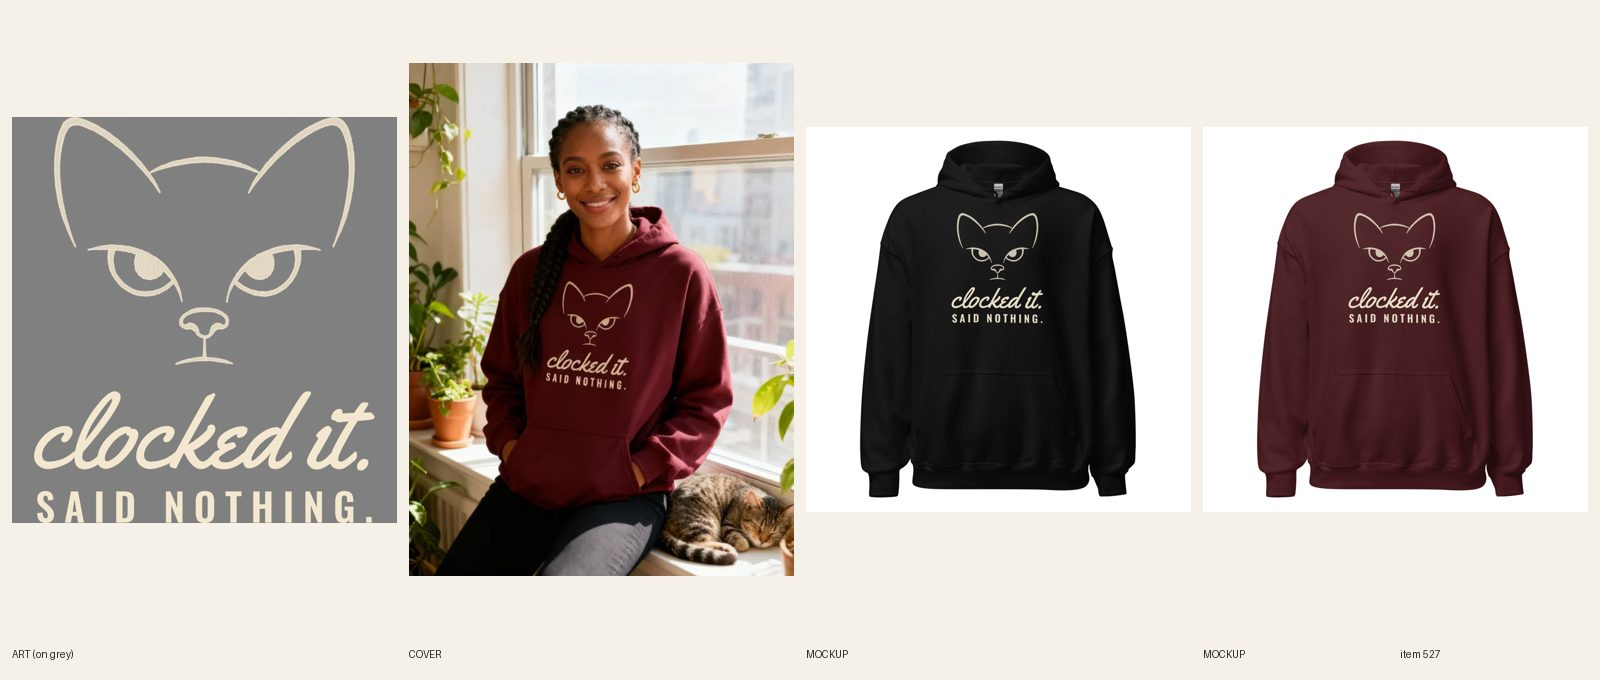
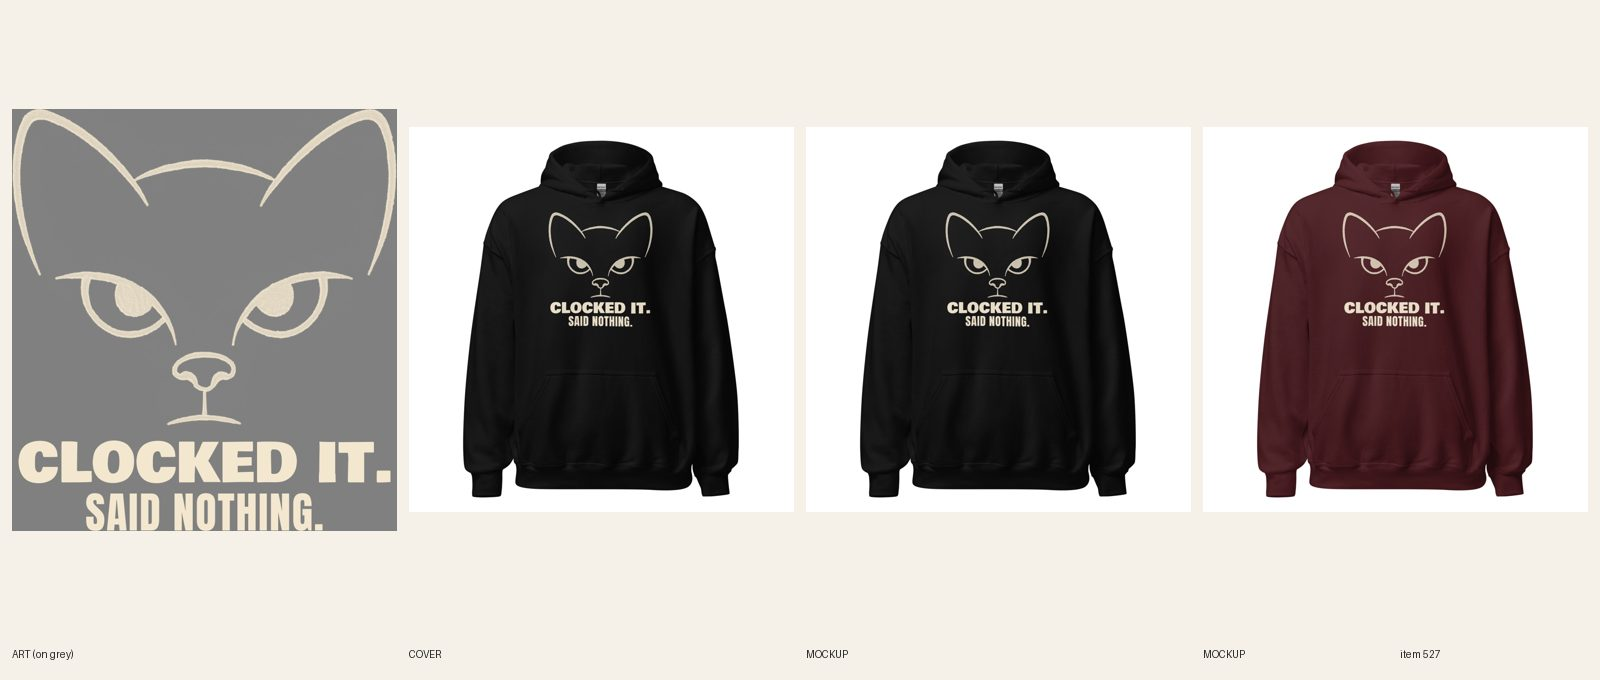
[C] review 527 Clocked It hoodie (type redo)
Claude-Session: https://claude.ai/code/session_015SgLXT5PEy8A7r5ifrBYio

Changed region(s): [[0.0, 0.0926, 0.5, 0.8647], [0.5938, 0.3088, 0.6562, 0.4941], [0.8438, 0.3088, 0.9062, 0.4941]]

diff --git a/designs/c527/make.py b/designs/c527/make.py
@@ -1,0 +1,28 @@
+from PIL import Image, ImageDraw, ImageFont
+src=Image.open('designs/first5/clocked-print.png').convert('RGBA')
+cat=src.crop((0,0,3000,1990)); cat=cat.crop(cat.getbbox())
+CREAM=(243,231,207,255)
+def line(text,font,size,maxw,track=0.0):
+    while True:
+        f=ImageFont.truetype('designs/fonts/'+font,size)
+        adv=[f.getlength(c) for c in text]; t=int(size*track)
+        tot=int(sum(adv)+t*(len(text)-1))
+        if tot<=maxw: break
+        size=int(size*0.97)
+    asc,desc=f.getmetrics()
+    im=Image.new('RGBA',(tot+200,asc+desc+100),(0,0,0,0)); d=ImageDraw.Draw(im); x=100
+    for c,a in zip(text,adv):
+        d.text((x,50),c,font=f,fill=CREAM); x+=a+t
+    return im.crop(im.getbbox())
+W=cat.width
+h1=line('CLOCKED IT.','BowlbyOne-Regular.ttf',900,int(W*1.0))
+h2=line('SAID NOTHING.','Anton-Regular.ttf',700,int(W*0.62),0.03)
+print(cat.size,h1.size,h2.size,h2.height/h1.height)
+gap=90
+H=cat.height+gap+h1.height+60+h2.height
+out=Image.new('RGBA',(W,H),(0,0,0,0)); y=0
+out.alpha_composite(cat,(0,0)); y=cat.height+gap
+out.alpha_composite(h1,((W-h1.width)//2,y)); y+=h1.height+60
+out.alpha_composite(h2,((W-h2.width)//2,y))
+out.save('designs/a478/print.png'); print(out.size)
+bg=Image.new('RGBA',out.size,(25,25,25,255)); bg.alpha_composite(out); bg.convert('RGB').resize((600,int(600*H/W))).save('/tmp/claude-0/-home-user-graphicteesco/b5199641-8ecc-5c6a-923b-7ecc9222cdc8/scratchpad/p478.png')

diff --git a/docs/pipeline/527-hoodie-clocked-it-said-nothing.md b/docs/pipeline/527-hoodie-clocked-it-said-nothing.md
@@ -1,4 +1,4 @@
-status: BUILDING [C] 2026-10-19 20:01
+status: REVIEW
 lane: C
 type: twin
 id: 527
@@ -27,3 +27,4 @@ kd: 59
 - 2026-10-18 03:02 UTC builder [C]: Sync 12/12. REVIEW. Sheet docs/review/527.jpg.
 - 2026-10-18 03:16 UTC director: LIVE. Sheet seen: side-eye cat line art, clocked it. SAID NOTHING. reads on Black and Maroon; woman at a sunny window with a sleeping cat. ACTIVE + Online Store, Headless, Google & YouTube; audit --handle PASS (0 warn).
 - 2026-10-18 17:22 UTC director: QUALITY RESET grade B (type only), REDO. The product stays ACTIVE (same handle, URL, title keyword). Keep the line "clocked it. / SAID NOTHING." and the art. 1. Type: line works; "clocked it." is a thin script, SAID NOTHING small spaced caps. 2. Quality reset type bar (docs/backlog/quality-reset.md, 'The new bar'): headline at least 90% of the art width, heavy, colors pulled from the art; second line at least 45% of the headline's height, never a thin script on a dark or mid garment; use the lettering as a shape (arch, stacked lockup, words breaking into the art), not a plain bar above and a script line below; no font used on more than 1 in 6 of the last 30 designs. 3. New print file means a new cover per R6.10 and a fresh review sheet (R7.7). While quality-reset.md says PAUSED, only lane A builds, and only the samples step 2 names.
+- 2026-10-19 20:07 UTC builder [C]: REDO 527 type only (B grade, twin of #478). Ported #478's print (designs/a478 print, 2352x2578): CLOCKED IT. Bowlby One cream full art width + SAID NOTHING. Anton cream stacked under the cat; same cat linework. R6.2: real-font lines, no ring/arch/panel. FW 1500 TOP 20, ends well above the pouch seam. Printful file 1089805339 (docs/print-files/527-clocked-it-hoodie-heavy.png), relinked 12/12. Black + Maroon only, cream fill on dark shirts so no light file needed (R5.3.8 n/a). 2 fronts replaced in place (back unchanged). Phone-size read ok on both colors. Copy: Story lettering sentence updated (heavy cream capitals). Plain product shot (handle already in retired-covers.json). audit --handle PASS 0 warn. fal $0. Sheet docs/review/527.jpg.

diff --git a/docs/intake-log.md b/docs/intake-log.md
@@ -1,4 +1,4 @@
-RUNNING lane C since 2026-10-19 20:01 UTC
+2026-10-19 20:07 UTC — [C] Builder run: redid #527 Women's Clocked It hoodie (type only: ported #478's Bowlby One cream CLOCKED IT. + Anton SAID NOTHING. stacked lockup, same cat linework, FW 1500 TOP 20, file 1089805339, 12/12 relinked, 2 fronts replaced in place, copy updated, plain product shot). REVIEW. fal $0. Lock released.
 RUNNING lane A since 2026-10-19 20:00 UTC
 RUNNING lane B since 2026-10-19 19:57 UTC
 2026-10-19 20:01 UTC — [C] Builder run: redid #525 Women's I Brought You a Sock heavyweight hoodie (type only: ported #512's approved Bevan rust/brown stacked lockup + navy YOU'RE WELCOME. capitals, same art, FW 1650 TOP 20, file 1089796245, 14/14 relinked, 2 fronts replaced in place, copy updated, plain product shot). REVIEW. fal $0. Lock released.
